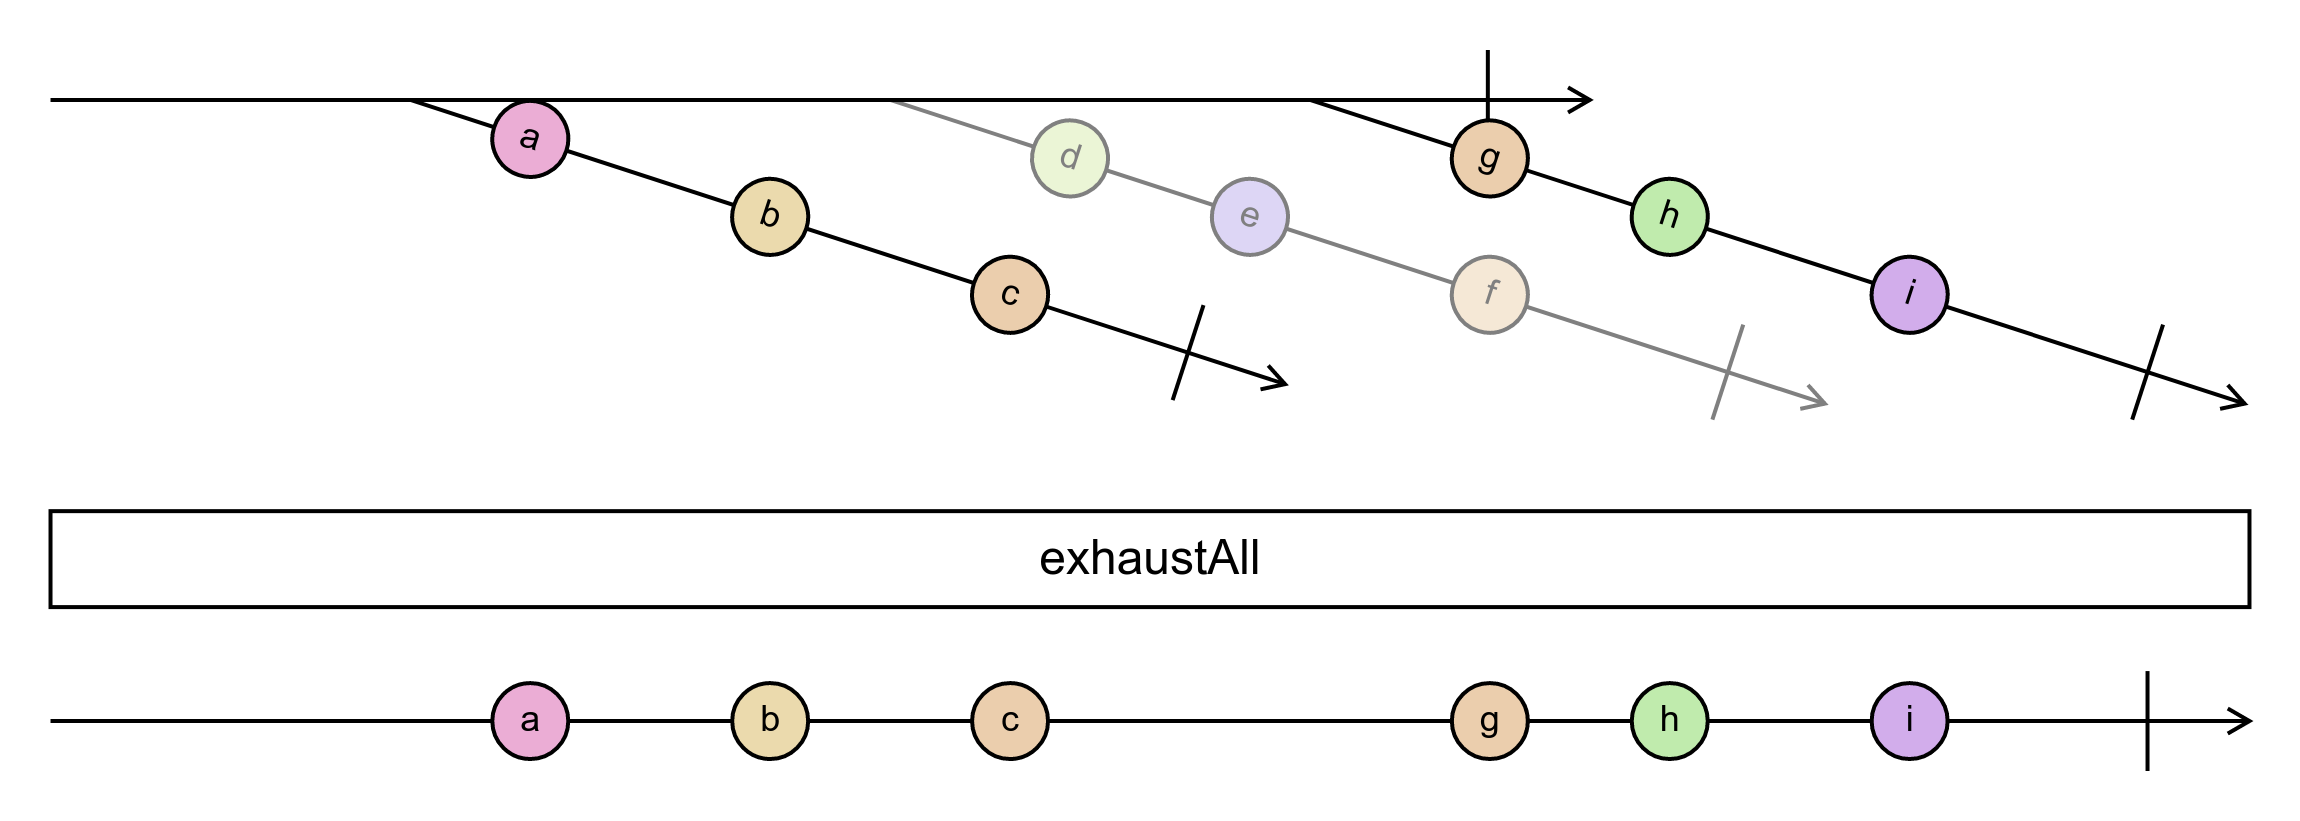
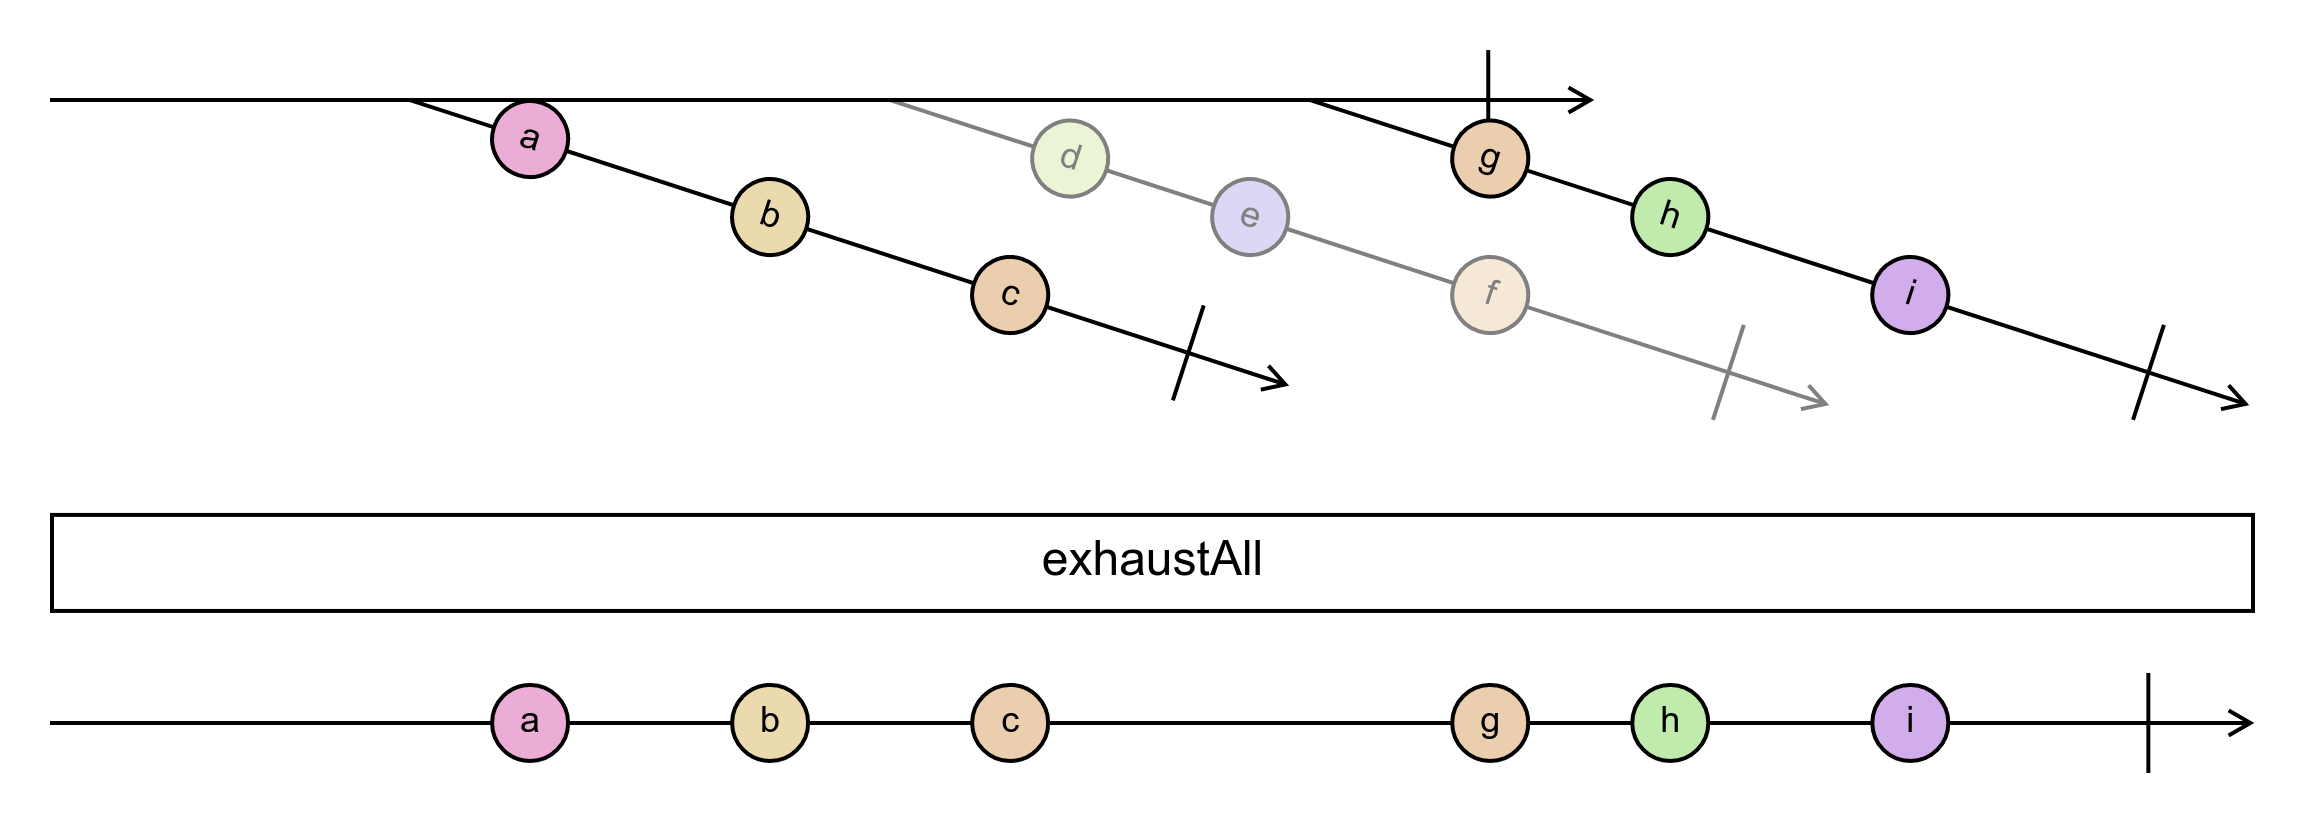
Deal with horizontal overflow better (fixes #37)

diff --git a/packages/swirly-renderer/src/operator.ts b/packages/swirly-renderer/src/operator.ts
@@ -3,7 +3,9 @@ import {
   OperatorSpecification,
   OperatorStyles,
   OperatorTitleSegment,
-  StreamSpecification
+  StreamOperatorTitleSegment,
+  StreamSpecification,
+  TextOperatorTitleSegment
 } from '@swirly/types'
 
 import { renderStreamBase } from './stream/core.js'
@@ -19,6 +21,7 @@ import {
   setSvgDimensions,
   XHTML_NS
 } from './util/svg-xml.js'
+import { translate } from './util/transform.js'
 
 const NON_BREAKING_SPACE = '\xA0'
 
@@ -38,31 +41,55 @@ const createRootDiv = (document: Document, styles: Record<string, any>) => {
 const renderStream = (spec: StreamSpecification, ctx: RendererContext) => {
   const {
     element: $group,
-    bbox: { x2: width, y2: height }
+    bbox: { x1, x2, y2 }
   } = renderStreamBase(ctx, spec, false, false)
+  let width
+  if (x1 < 0) {
+    translate($group, -x1, 0)
+    width = x2 - x1
+  } else {
+    width = x2
+  }
   return {
     $group,
     width,
-    height
+    height: y2
   }
 }
 
-const segmentRenderers = {
-  text: (value: string, ctx: RendererContext) => {
-    const $div = ctx.document.createElement('div')
-    $div.textContent = value.replace(reSpace, NON_BREAKING_SPACE)
-    return $div
-  },
-  stream: (
-    value: StreamSpecification,
-    ctx: RendererContext,
-    styles: OperatorStyles
-  ) => {
-    const { documentElement: $svg } = createSvgDocument(ctx.DOMParser)
-    const { $group, width, height } = renderStream(value, ctx)
-    setSvgDimensions($svg, width, height, (styles.stream_scale ?? 100) / 100)
-    $svg.appendChild($group)
-    return $svg
+const renderTextTitleSegment = (
+  segment: TextOperatorTitleSegment,
+  ctx: RendererContext
+) => {
+  const $div = ctx.document.createElement('div')
+  $div.textContent = segment.value.replace(reSpace, NON_BREAKING_SPACE)
+  return $div
+}
+
+const renderStreamTitleSegment = (
+  segment: StreamOperatorTitleSegment,
+  ctx: RendererContext,
+  styles: OperatorStyles
+) => {
+  const { documentElement: $svg } = createSvgDocument(ctx.DOMParser)
+  const { $group, width, height } = renderStream(segment.value, ctx)
+  setSvgDimensions($svg, width, height, (styles.stream_scale ?? 100) / 100)
+  $svg.appendChild($group)
+  return $svg
+}
+
+const renderTitleSegment = (
+  segment: OperatorTitleSegment,
+  ctx: RendererContext,
+  styles: OperatorStyles
+) => {
+  switch (segment.type) {
+    case 'stream':
+      return renderStreamTitleSegment(segment, ctx, styles)
+    case 'text':
+      return renderTextTitleSegment(segment, ctx)
+    default:
+      return null
   }
 }
 
@@ -75,7 +102,7 @@ const renderRichTitle = (
 ) => {
   const $foreignObject = createSvgElement(ctx.document, 'foreignObject', {
     y: styles.spacing!,
-    height: styles.height! - styles.stroke_width!
+    height: styles.height!
   })
   const $container = createRootDiv(ctx.document, {
     width: '100%',
@@ -88,11 +115,7 @@ const renderRichTitle = (
   })
   $foreignObject.appendChild($container)
   for (const segment of segments) {
-    const $element = segmentRenderers[segment.type](
-      segment.value as any,
-      ctx,
-      styles
-    )
+    const $element = renderTitleSegment(segment, ctx, styles)!
     $container.appendChild($element)
   }
   return $foreignObject
@@ -136,11 +159,11 @@ const renderTitle = (
 
   const $title = isText
     ? renderTextTitle(
-        segments[0].value as string,
-        ctx,
-        color,
-        styles,
-        fontStyles
+      (segments[0] as TextOperatorTitleSegment).value,
+      ctx,
+      color,
+      styles,
+      fontStyles
     )
     : renderRichTitle(segments, ctx, color, styles, fontStyles)
 
@@ -160,8 +183,8 @@ export const renderOperator = (
   const $group = createSvgElement(ctx.document, 'g')
 
   const $rect = createSvgElement(ctx.document, 'rect', {
-    x: 0,
-    y: s.spacing!,
+    x: s.stroke_width! / 2,
+    y: s.spacing! + s.stroke_width! / 2,
     width: 1,
     height: s.height! - s.stroke_width!,
     fill: s.fill_color!,
@@ -181,9 +204,10 @@ export const renderOperator = (
     y2: s.height! + 2 * s.spacing!
   }
 
-  const update = ({ width }: PostRenderUpdateContext) => {
-    $rect.setAttribute('width', String(width))
+  const update = ({ width, dx }: PostRenderUpdateContext) => {
+    $rect.setAttribute('width', String(width - s.stroke_width!))
     $title.setAttribute('width', String(width))
+    translate($group, -dx, 0)
     if (shouldCenter) {
       $title.setAttribute('x', String(width / 2))
     }

diff --git a/packages/swirly-renderer/src/index.ts b/packages/swirly-renderer/src/index.ts
@@ -64,6 +64,7 @@ const renderMarbleDiagram = (
 
   const updaters = []
 
+  let minX = 0
   let maxX = 0
   let y = 0
   for (const item of spec.content) {
@@ -75,6 +76,7 @@ const renderMarbleDiagram = (
     translate(element, 0, y - bbox.y1)
     $group.appendChild(element)
 
+    minX = Math.min(minX, bbox.x1)
     maxX = Math.max(maxX, bbox.x2)
 
     const height = bbox.y2 - bbox.y1
@@ -85,10 +87,14 @@ const renderMarbleDiagram = (
     }
   }
 
-  y -= styles.stream_spacing!
+  const dx = minX < 0 ? -minX : 0
+  translate($group, dx, 0)
 
-  const width = styles.canvas_padding! + maxX + styles.canvas_padding!
-  const height = styles.canvas_padding! + y + styles.canvas_padding!
+  const innerWidth = maxX - minX
+  const innerHeight = y - styles.stream_spacing!
+
+  const width = styles.canvas_padding! + innerWidth + styles.canvas_padding!
+  const height = styles.canvas_padding! + innerHeight + styles.canvas_padding!
 
   setSvgDimensions($svg, width, height)
 
@@ -105,7 +111,11 @@ const renderMarbleDiagram = (
   }
 
   for (const update of updaters) {
-    update({ width: maxX, height: y })
+    update({
+      width: innerWidth,
+      height: innerHeight,
+      dx
+    })
   }
 
   return {

diff --git a/packages/swirly-renderer/src/arrow.ts b/packages/swirly-renderer/src/arrow.ts
@@ -13,6 +13,8 @@ export const renderArrow = (
   const arrowheadWidth = arrowStyles.width!
   const arrowheadHeight =
     arrowheadWidth * Math.tan(degreesToRadians(arrowheadAngle / 2))
+  const arrowHeadProtrusion =
+    arrowStyles.stroke_width! / Math.sin(degreesToRadians(arrowheadAngle))
   const y1 = y - arrowheadHeight
   const y2 = y + arrowheadHeight
 
@@ -51,7 +53,7 @@ export const renderArrow = (
   const bbox = {
     x1: 0,
     y1: 0,
-    x2: width,
+    x2: width + arrowHeadProtrusion,
     y2: streamHeight
   }
 

diff --git a/packages/swirly-renderer/src/types.ts b/packages/swirly-renderer/src/types.ts
@@ -40,6 +40,7 @@ export type RendererResult = {
 export type PostRenderUpdateContext = {
   width: number
   height: number
+  dx: number
 }
 
 export type UpdatableRendererResult = RendererResult & {
